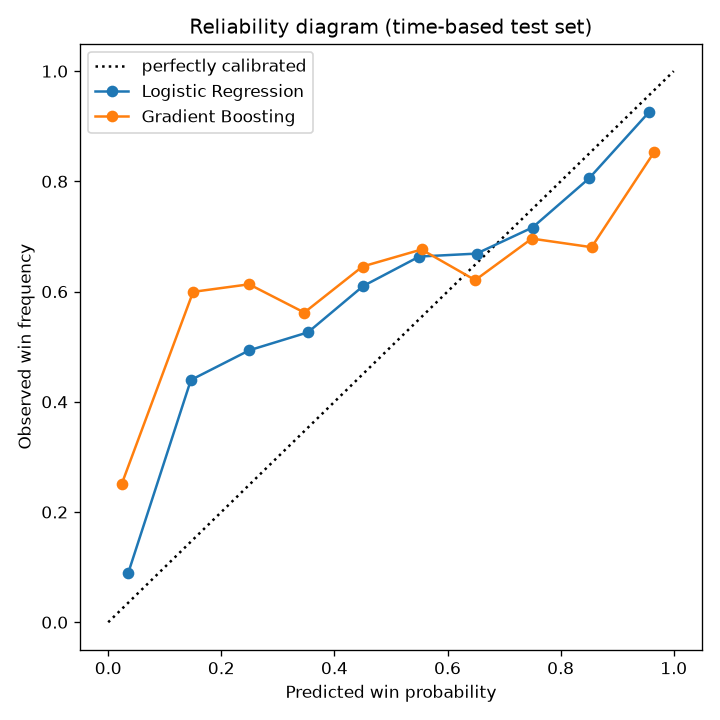
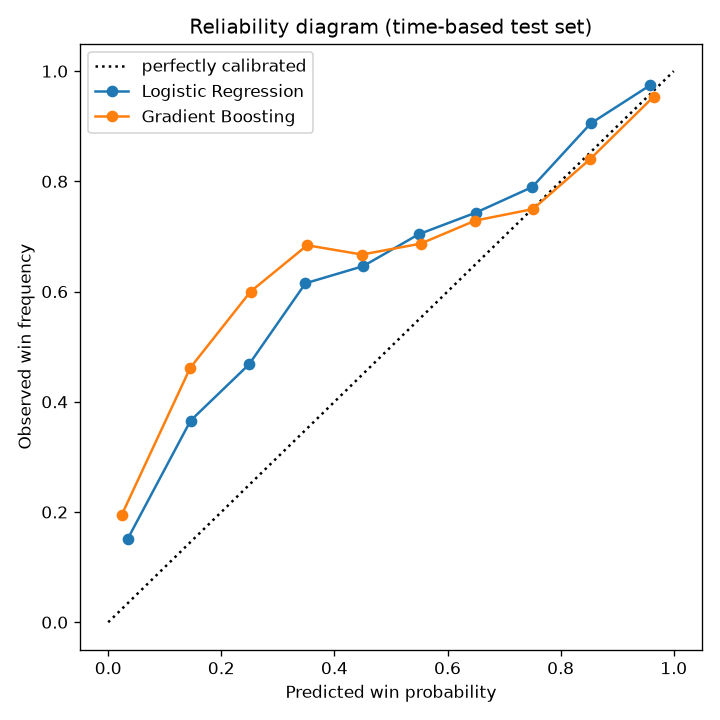
docs: update results for the 2008-2026 dataset
Refresh every reported figure against the extended data and the 2024-2026
holdout. Logistic regression still wins both metrics (ROC-AUC 0.8637 vs
0.8459, Brier 0.1711 vs 0.1886), and the leakage gap narrows from 6.4 to
3.3 points now that there is twice as much training data.

Also revises the calibration story rather than restating it. The old README
attributed the model's under-rating of chasing teams to era drift, citing a
53.3% -> 57.3% shift in chase success. On the full dataset that gap is only
54.2% -> 55.5%, which is far too small to carry the explanation, so the
section now attributes it to the linear model extrapolating too confidently
in desperate positions, and notes that isotonic calibration corrects most
of it.

evaluate.py had the split year hardcoded in its header and would have
printed '2018' while testing on 2024; it now reads TEST_SEASON_START.

diff --git a/src/evaluate.py b/src/evaluate.py
@@ -25,7 +25,8 @@ from sklearn.metrics import roc_auc_score, brier_score_loss
 
 from feature_engineering import prepare_dataset
 from train_model import (
-    build_pipeline, time_split, DEFAULT_MATCHES, DEFAULT_DELIVERIES,
+    build_pipeline, time_split, TEST_SEASON_START,
+    DEFAULT_MATCHES, DEFAULT_DELIVERIES,
 )
 
 # Resolved relative to this file so the script runs from any directory.
@@ -51,7 +52,8 @@ def main():
         "Gradient Boosting": HistGradientBoostingClassifier(random_state=42),
     }
 
-    print("Time-based split (train seasons < 2018, test >= 2018)\n")
+    print(f"Time-based split (train seasons < {TEST_SEASON_START}, "
+          f"test >= {TEST_SEASON_START})\n")
     header = f"{'Model':<26}{'ROC-AUC':>10}{'Brier':>10}{'Brier(cal)':>12}"
     print(header)
     print("-" * len(header))

diff --git a/README.md b/README.md
@@ -106,7 +106,7 @@ trains it automatically on first run.
 
 ## Results
 
-All figures below are on the season-based test set (2018–2019), produced by
+All figures below are on the season-based test set (2024–2026), produced by
 `python src/evaluate.py`.
 
 Because the output is a probability, ROC-AUC alone is not enough — it only
@@ -116,44 +116,46 @@ trustworthy.
 
 | Model | ROC-AUC | Brier | Brier (calibrated) |
 | --- | --- | --- | --- |
-| **Logistic Regression** | **0.8228** | **0.1848** | **0.1771** |
-| Gradient Boosting | 0.7836 | 0.2353 | 0.1992 |
+| **Logistic Regression** | **0.8637** | **0.1711** | **0.1597** |
+| Gradient Boosting | 0.8459 | 0.1886 | 0.1744 |
 
 Logistic regression wins on both ranking and probability quality, so the simpler
 and more interpretable model is also the better one here — that is why it ships.
-Isotonic calibration improves it further (0.1848 → 0.1771).
+Isotonic calibration improves it further (0.1711 → 0.1597).
 
 ### Where the model is weakest
 
 | Innings phase | Brier |
 | --- | --- |
-| Powerplay (ov 1–6) | 0.2409 |
-| Middle (ov 7–15) | 0.1729 |
-| Death (ov 16–20) | 0.1268 |
+| Powerplay (ov 1–6) | 0.2383 |
+| Middle (ov 7–15) | 0.1548 |
+| Death (ov 16–20) | 0.0958 |
 
 The model is least reliable early and sharpest at the death, which is expected:
 genuine uncertainty collapses as a chase runs out of balls.
 
-### Calibration reveals a distribution shift
+### Calibration: the model is too pessimistic about hard chases
 
 ![Reliability diagram](reports/calibration.png)
 
 The reliability curve sits **above** the diagonal at the low end — when the model
-says 15%, chasing teams actually won about 44% of the time. It is systematically
-under-rating the chasing side.
+says 15%, chasing teams actually won about 37% of the time. It systematically
+under-rates the side batting second when the chase looks difficult.
 
-The season split explains why. Chases succeeded **53.3%** of the time in the
-training seasons (2008–2017) but **57.3%** in the test seasons (2018–2019), so a
-model fitted on the earlier era carries its pessimism forward.
+Era drift is *not* the explanation. Chases succeeded 54.2% of the time in the
+training seasons and 55.5% in the held-out ones — barely over a point apart, far
+too small to account for the gap. The more likely cause is the model itself:
+logistic regression is linear in these features, and the real relationship in
+desperate situations is not, so it extrapolates too confidently towards zero.
 
-This is the point of a time-based split: a random split would have hidden the
-shift by mixing both eras into training.
+Isotonic calibration corrects most of it, which is why the calibrated Brier is
+the better number (0.1711 → 0.1597).
 
 ## Why the reported accuracy dropped
 
-An earlier version of this project reported **ROC-AUC ≈ 0.887**. It now reports
-**0.823**. Nothing about the model got worse — the earlier number was measured
-wrongly, and this is the correction.
+An earlier version of this project reported **ROC-AUC ≈ 0.887** on a random
+split. That number was measured wrongly, and the section below is the
+correction.
 
 The dataset has one row per ball. Splitting those rows at random puts balls from
 the *same match* on both sides of the split, and consecutive balls of a chase are
@@ -166,17 +168,21 @@ of the effect:
 
 | Split | ROC-AUC | What it measures |
 | --- | --- | --- |
-| Row-random (the leaky one) | 0.8872 | Balls from one match appear in train *and* test |
-| Match-grouped | 0.8416 | Whole matches held out, seasons mixed |
-| **Season-based (shipped)** | **0.8228** | Train 2008–2017, test 2018–2019 |
+| Row-random (the leaky one) | 0.8966 | Balls from one match appear in train *and* test |
+| Match-grouped | 0.8713 | Whole matches held out, seasons mixed |
+| **Season-based (shipped)** | **0.8637** | Train 2008–2023, test 2024–2026 |
 
 The season split is the one that matches how the model is actually used —
 predicting matches that had not happened when it was trained — so that is the
 number this project reports. `python src/train_model.py` prints all three.
 
-**The 6.4-point gap is the cost of the leak.** A model chosen or tuned against
-the 0.887 figure would have been optimised against a number that does not exist
-in deployment.
+**The 3.3-point gap is the cost of the leak.** A model chosen or tuned against
+the row-random figure would have been optimised against a number that does not
+exist in deployment.
+
+That gap used to be 6.4 points, on the smaller 2008–2019 dataset. It shrank
+because there is now roughly twice as much training data, and the more matches
+a model sees, the less it gains from memorising any one of them.
 
 ## Deployment
 
